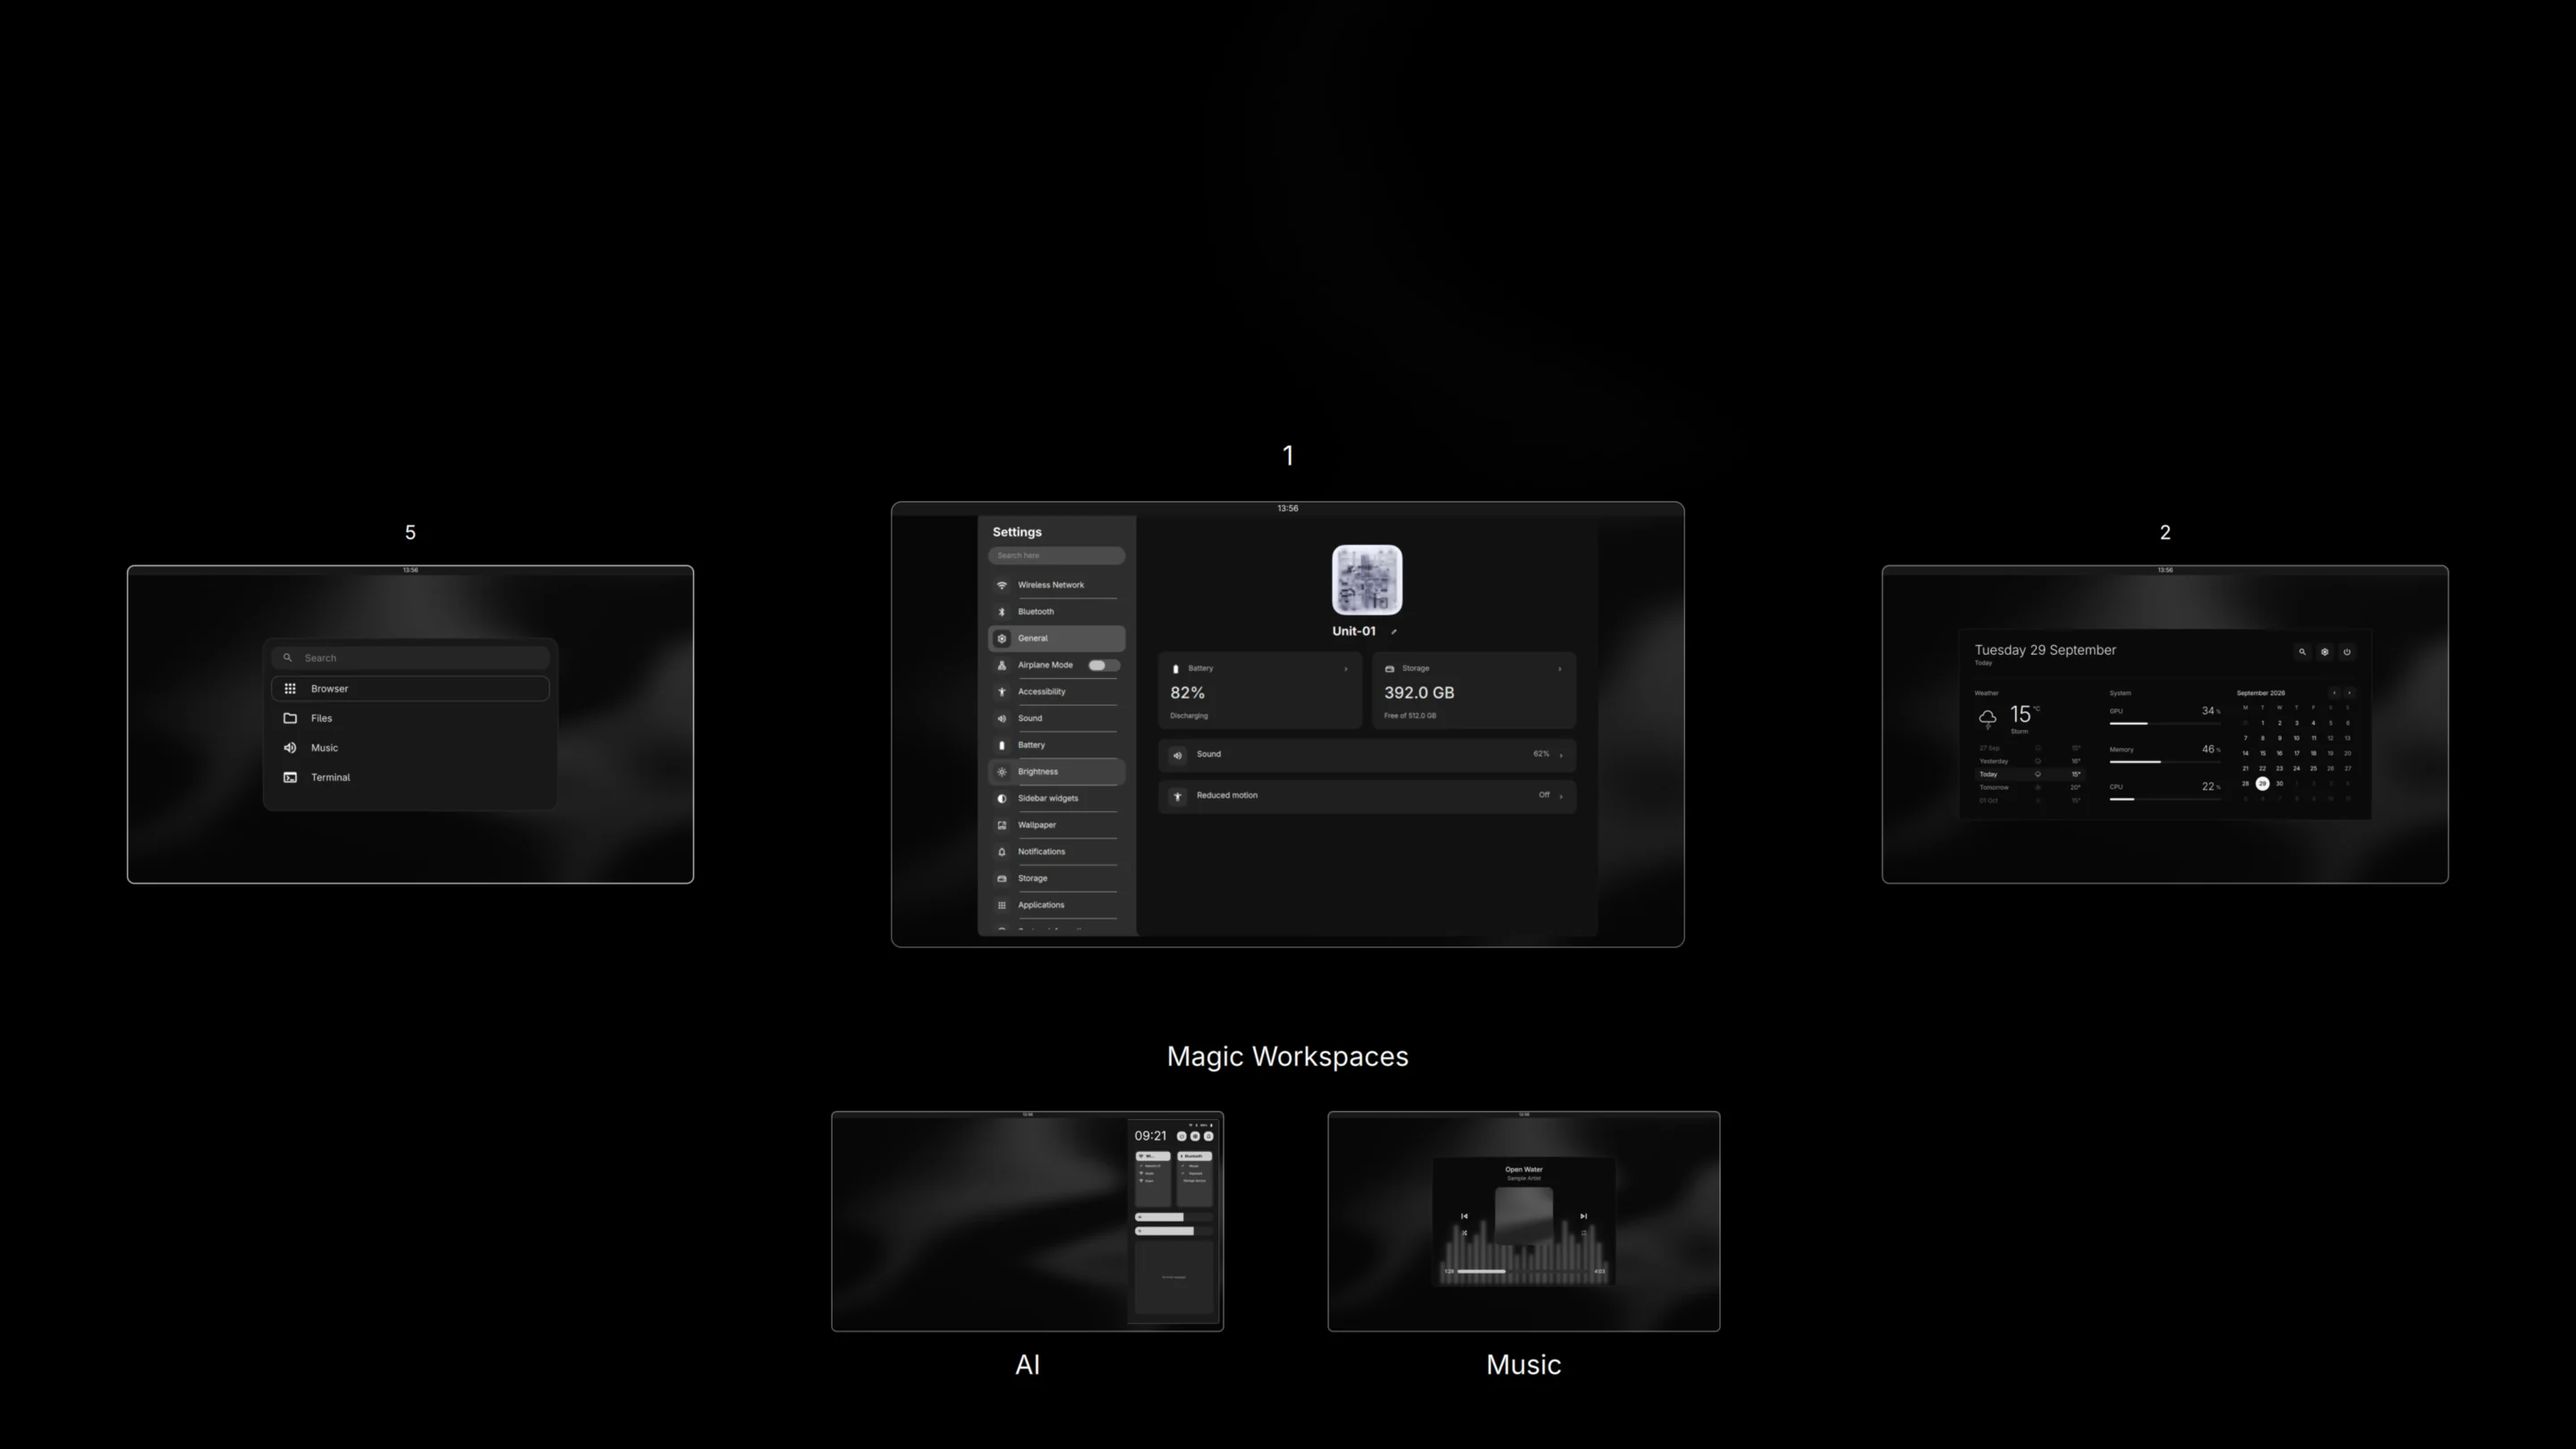
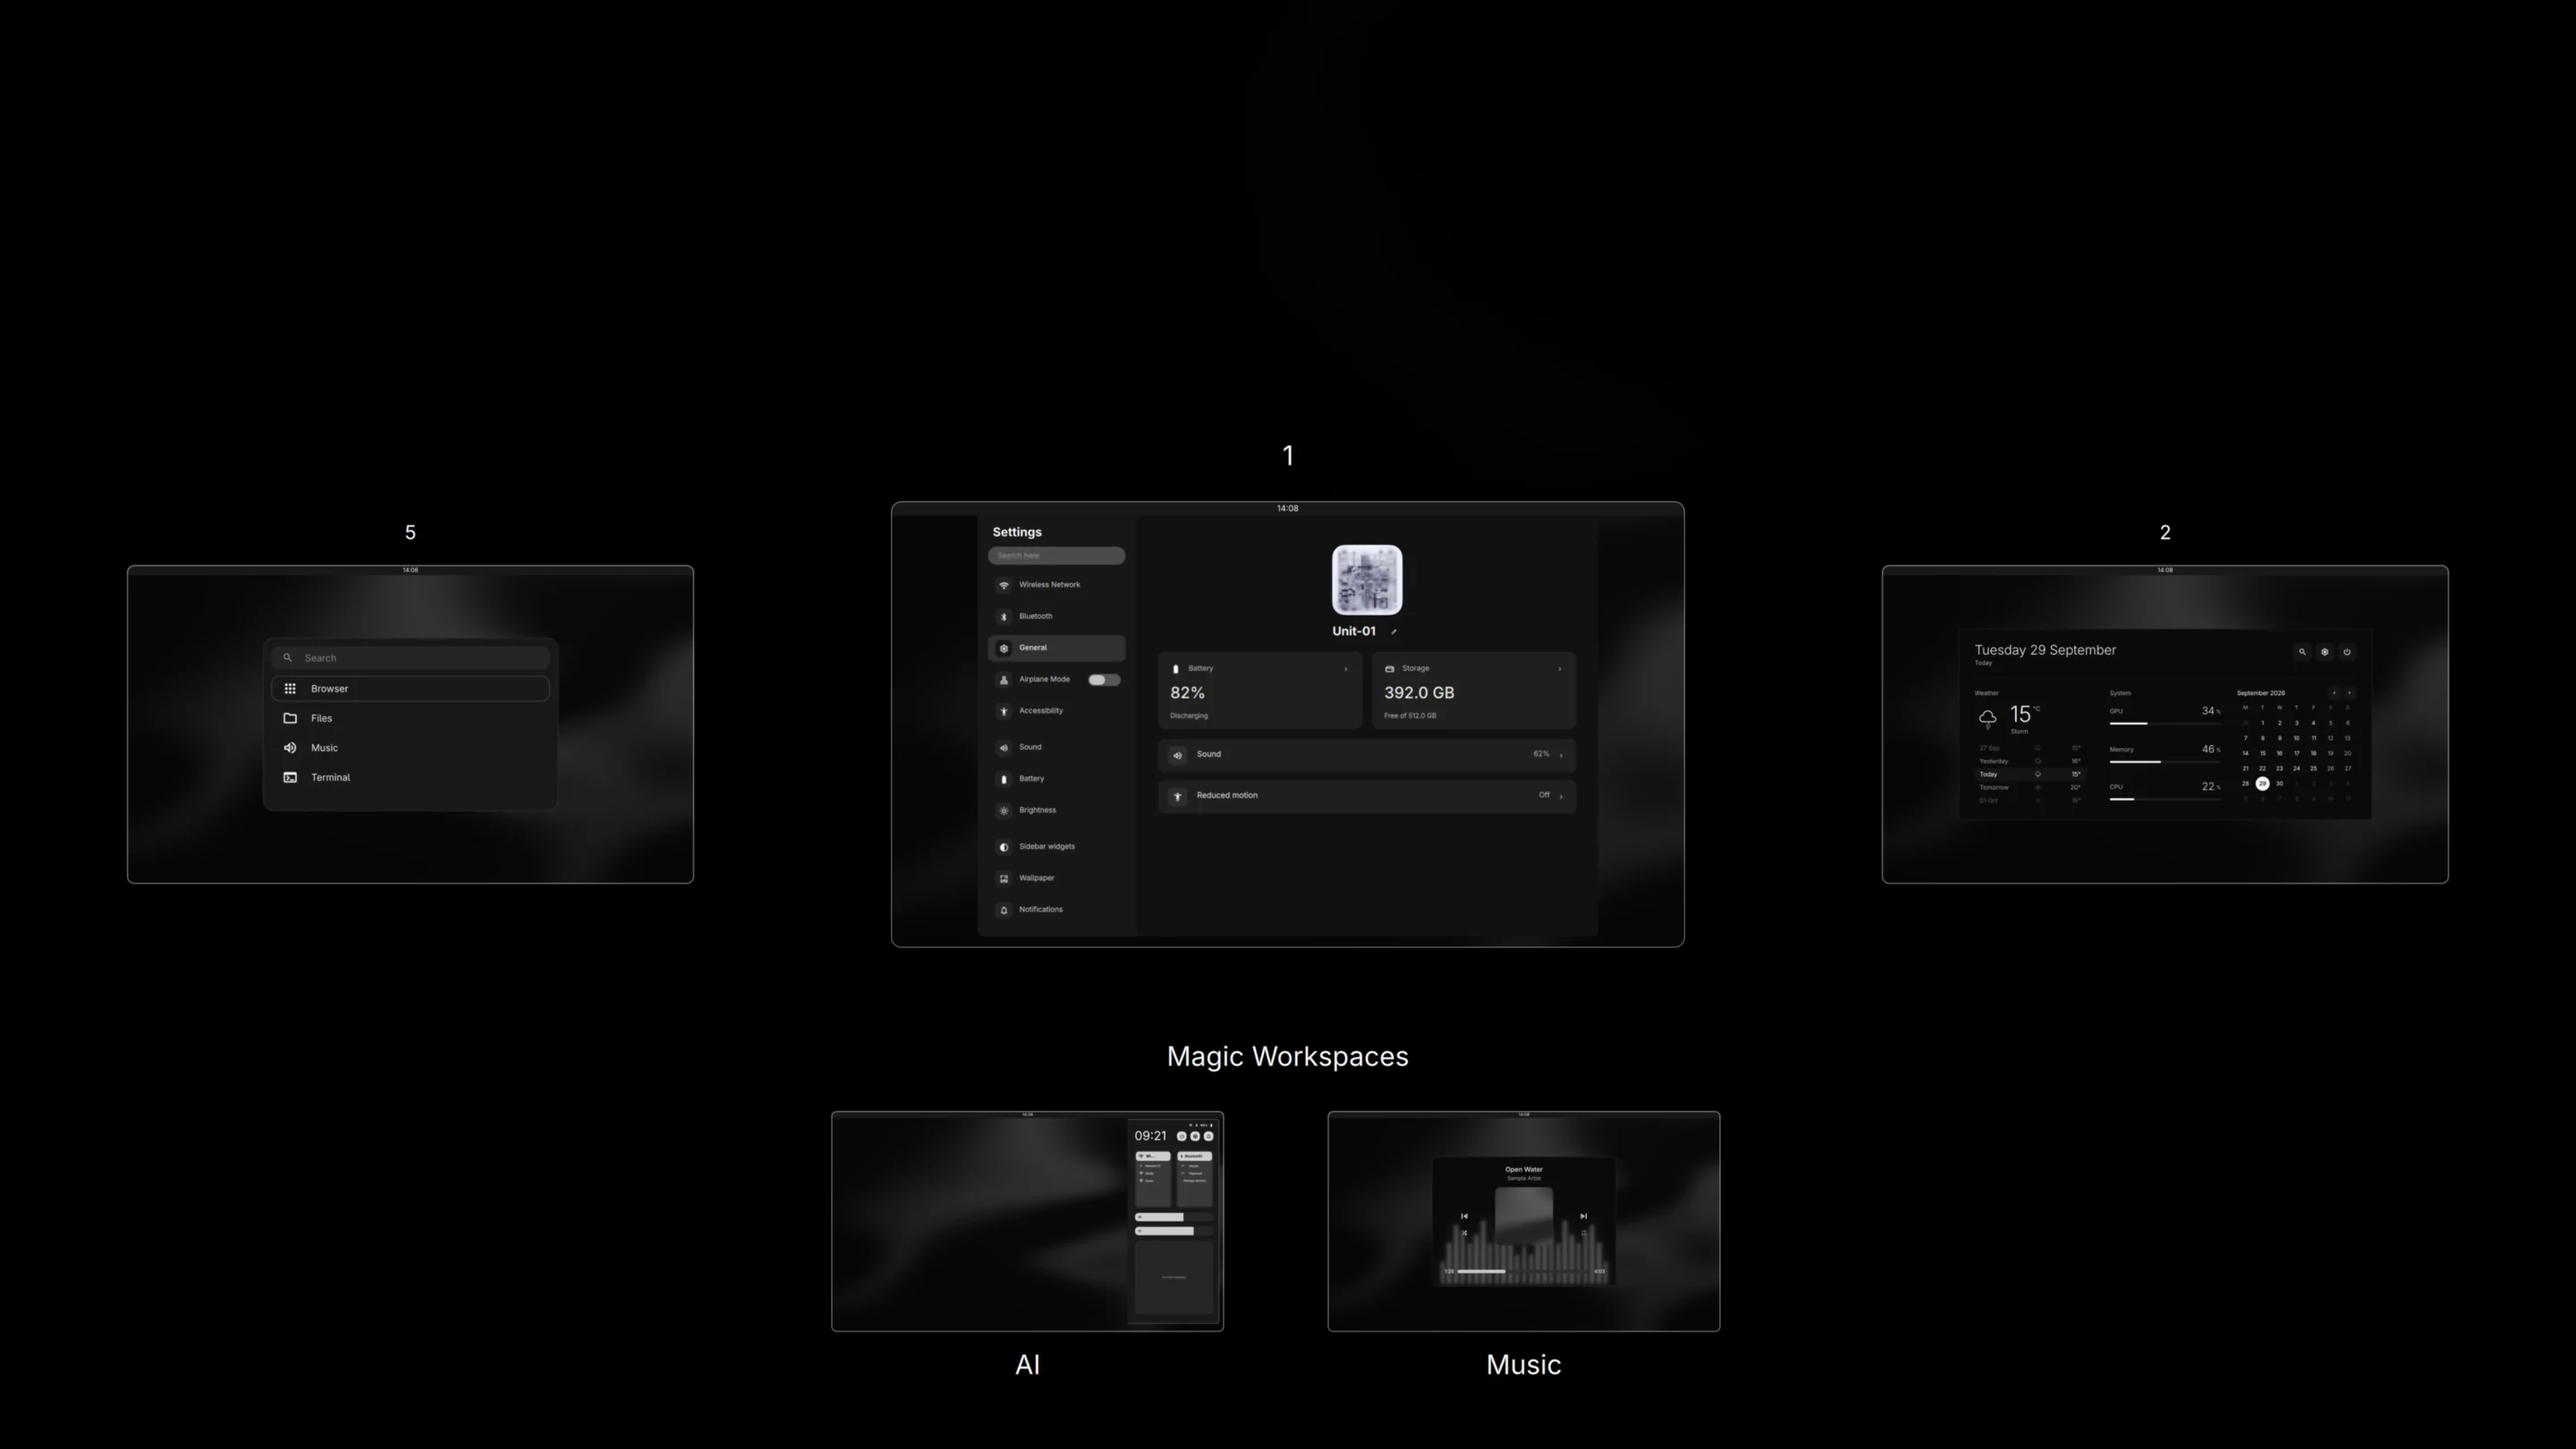
Restore the previous Settings sidebar buttons
Only the heading and pill search stay from the new sidebar. The row
gaps, groups, tiles, selection and background return to their previous
style, and the website images show the result.

Changed region(s): [[0.375, 0.4012, 0.4375, 0.6481]]

diff --git a/config/quickshell/ghost-bar/SettingsPanel.qml b/config/quickshell/ghost-bar/SettingsPanel.qml
@@ -17,10 +17,10 @@ Item {
     readonly property int controlHeight: 56
     readonly property string creatorAttribution: "ghOSt - ChatGPT and dsksnkz"
     readonly property real navigationRowHeight: 44
-    readonly property real navigationRowGap: 0
+    readonly property real navigationRowGap: 8
     readonly property real navigationStride: navigationRowHeight + navigationRowGap
     readonly property real navigationInset: 0
-    readonly property real navigationGroupGap: 0
+    readonly property real navigationGroupGap: 16
     readonly property var navigationMetrics: ({
         rowHeight: navigationRowHeight,
         rowGap: navigationRowGap,
@@ -498,7 +498,7 @@ Item {
             anchors.fill: parent
             radius: 10
             smoothing: .6
-            color: "#2d2d2d"
+            color: "#171717"
         }
         G2Surface {
             x: 262
@@ -591,6 +591,7 @@ Item {
                 id: nav
                 width: 231
                 height: settings.navLayout.height
+                // Logical groups keep their spacing without housings or lines.
                 G2Surface {
                     id: navigationSelection
                     x: 0
@@ -600,10 +601,10 @@ Item {
                     height: settings.navigationRowHeight
                     radius: 10
                     smoothing: .6
-                    color: "#535353"
+                    color: "#303030"
                     Behavior on y {
                         NumberAnimation {
-                            duration: Theme.reducedMotion ? 0 : 200
+                            duration: Theme.reducedMotion ? 0 : 280
                             easing.type: Easing.BezierSpline
                             easing.bezierCurve: [0.22, 1, 0.36, 1, 1, 1]
                         }
@@ -613,36 +614,24 @@ Item {
                     model: settings.navLayout.rows
                     Key {
                         required property var modelData
-                        required property int index
-                        readonly property bool current: modelData.id === settings.page
                         objectName: "settings-navigation-" + modelData.id
-                        hoverFeedback: !current
+                        hoverFeedback: modelData.id !== settings.page
                         y: modelData.y
-                        width: 227
+                        width: 231
                         height: settings.navigationRowHeight
                         radius: 10
                         hint: modelData.name
                         color: "transparent"
                         onClicked: settings.choose(modelData.id)
-                        // A hairline between rows, hidden beside the selection.
-                        Rectangle {
-                            x: 52
-                            y: parent.height - 1
-                            width: parent.width - 66
-                            height: 1
-                            color: "#ffffff"
-                            opacity: .55
-                            visible: !parent.current && parent.index < settings.navLayout.rows.length - 1 && settings.navLayout.rows[parent.index + 1].id !== settings.page
-                        }
                         G2Surface {
                             objectName: "settings-navigation-icon"
-                            x: 8
+                            x: 12
                             y: (parent.height - height) / 2
-                            width: 30
-                            height: 30
+                            width: 28
+                            height: 28
                             radius: 8
                             smoothing: .6
-                            color: parent.current ? "#2d2d2d" : "#363636"
+                            color: modelData.id === settings.page ? "#191919" : "#242424"
                             SvgIcon {
                                 objectName: "settings-navigation-glyph"
                                 anchors.centerIn: parent
@@ -652,13 +641,14 @@ Item {
                             }
                         }
                         Label {
-                            x: 50
+                            x: 52
                             y: (parent.height - height) / 2
-                            width: modelData.id === "airplane" ? 112 : 170
+                            width: modelData.id === "airplane" ? 112 : 162
                             height: 18
                             text: modelData.name
-                            font.pixelSize: 13
-                            color: "#ffffff"
+                            font.pixelSize: 12
+                            font.weight: modelData.id === settings.page ? Theme.mediumWeight : Font.Normal
+                            color: modelData.id === settings.page ? settings.primaryInk : "#d1d1d1"
                         }
                         SettingsToggle {
                             visible: modelData.id === "airplane"

diff --git a/config/quickshell/ghost-bar/input-test.qml b/config/quickshell/ghost-bar/input-test.qml
@@ -88,7 +88,7 @@ ShellRoot {
                 compare(original.searchWidth, 227);
                 const spacing = settingsPanel.spacingStatus();
                 compare(spacing.rowHeight, 44);
-                compare(spacing.rowGap, 0);
+                compare(spacing.rowGap, 8);
                 compare(spacing.icons.length, 14);
                 for (const icon of spacing.icons) verify(Math.abs(icon.glyph / icon.well - 0.6) < 0.001)
                 const selected = findChild(settingsPanel, "settings-navigation-general");

diff --git a/scripts/verify_spacing.py b/scripts/verify_spacing.py
@@ -22,8 +22,8 @@ assert len(icons) == 3
 assert all(icon["height"] == 16 for icon in icons)
 assert max(icon["centerY"] for icon in icons) - min(icon["centerY"] for icon in icons) < 0.01
 settings = state["settings"]
-assert settings["rowHeight"] == 44 and settings["groupGap"] == 0
-assert settings["rowGap"] == 0
+assert settings["rowHeight"] == 44 and settings["groupGap"] == 16
+assert settings["rowGap"] == 8
 assert settings["bodySpacing"] == 32 and settings["nameGap"] == 18
 assert len(settings["icons"]) == 14
 assert all(abs(icon["glyph"] / icon["well"] - 0.6) < 0.001 for icon in settings["icons"])

diff --git a/scripts/verify_settings.py b/scripts/verify_settings.py
@@ -55,7 +55,7 @@ for page in ('general', 'sound', 'battery', 'widgets', 'brightness', 'wallpaper'
     assert state['navHeight'] == 590 and state['navTop'] == 98
     assert (state['searchTop'], state['searchWidth']) == (56, 227)
     assert state['profileFont'] == 'Adwaita Sans'
-    assert len(state['groupHeights']) == 4 and state['groupHeights'][0] == 220
+    assert len(state['groupHeights']) == 4 and state['groupHeights'][0] == 252
     assert state['groupCategories'][0] == ['network', 'bluetooth', 'general', 'airplane', 'accessibility']
     assert not state['error']
     time.sleep(.25)

diff --git a/docs/PROGRESS.md b/docs/PROGRESS.md
@@ -1192,3 +1192,5 @@ The background stays solid during the zoom; fading it exposed the live rail and 
 ## 2026-11-01 website
 
 `site/index.html` rebuilt as a dark, Apple-style product page with no build step: hero, top bar, switcher, component bento, Settings, login, install. The interactive component gallery (`catalogue.mjs`, `motion.mjs`, old `app.js`) is removed; `icons.html` stays and uses the new shell. Images come from `scripts/capture_site.py`: real components, sample data, sample app list (never this machine's apps or pins), and a generated original wallpaper, because the licence of the user's wallpaper is unknown. Font is Adwaita Sans with its OFL; Apple devices use SF. Older site assets stay because historical docs link to them. Dark only, matching the product. Checked at desktop and 375px in the browser pane: no horizontal overflow, no console errors. Not committed or deployed.
+
+Settings sidebar buttons restored to the previous style (gaps, groups, tiles, selection, no hairlines) on the previous sidebar background; only the heading and pill search stay new. Page cards are unchanged.
